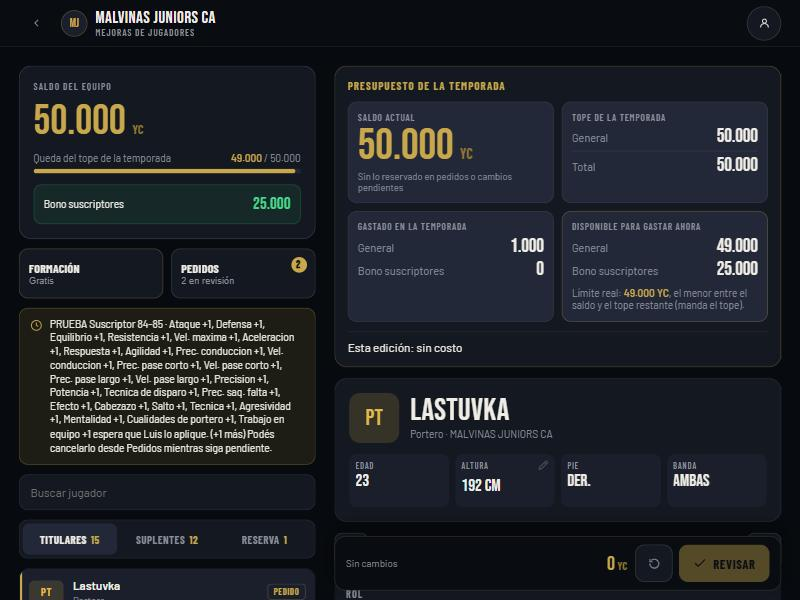
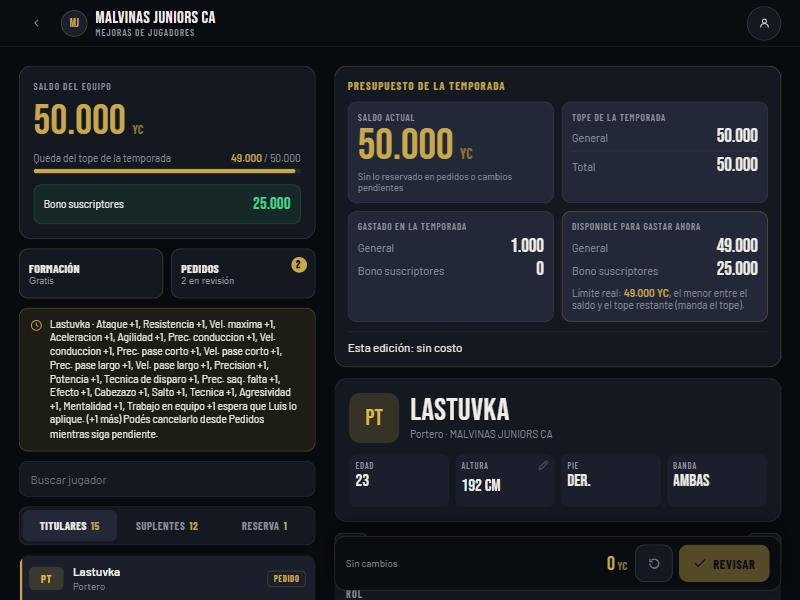
fix(EMP-80-1): auditoria del coordinador: defensa del admin, voseo y sandbox
- pes5-tool: el admin valida con motivoRechazoEmparejar (incluye el tope
  de temporada) antes de escribir y en el boton; _emparejarDe es la unica
  fuente de los cambios.
- Textos sin voseo en las lineas de EMP-80-1 (validarEmparejar, mensajes
  de la Tool y del presidente). Los textos anteriores no se tocaron.
- test-yunacoins-rules: la regex del mensaje sigue el texto nuevo.
- Sandbox rehecho sobre este codigo: casos c, d, e, f, g, g2 y h con
  capturas nuevas. Casos a y b (Tool admin) siguen sin ejecutar.
- Tests: rules-teams 33/33, rules-suite 426/426, rules-pes5 58/58 contra
  el emulador en 8080; unitarias 133/133.

Changed region(s): [[0.0, 0.51, 0.4062, 1.0]]

diff --git a/tsc-src/js/pes5-tool.js b/tsc-src/js/pes5-tool.js
@@ -1265,13 +1265,19 @@ function _emparejarDe(registro){
   const cfg = _emparejarCfg();
   const j = PES5_EDITOR.leerJugadorCompleto(PLANO, registro);
   const r = YUNACOINS_RULES.cambiosEmparejar(j, cfg);
+  const cambios = { atributos: r.atributos };
+  // Defensa previa a escribir: la misma que usa la aprobación de un pedido, con el tope de la temporada.
+  // Si no hay perfil, el motivo lo dice cambiosEmparejar; si lo hay, lo dice motivoRechazoEmparejar.
+  const motivo = r.perfil
+    ? YUNACOINS_RULES.motivoRechazoEmparejar(j, cambios, cfg, _topeAtributoVigente())
+    : (r.motivo || 'Este jugador no puede emparejarse.');
   return {
     perfil: r.perfil,
     max: r.perfil ? YUNACOINS_RULES.rangoEmparejar(cfg, r.perfil).max : null,
     lineas: r.lineas,
-    cambios: { atributos: r.atributos },
+    cambios: cambios,
     nombre: j.nombre || '',
-    motivo: r.motivo,
+    motivo: motivo,
   };
 }
 function _btnEmparejarHTML(registro){
@@ -1279,17 +1285,16 @@ function _btnEmparejarHTML(registro){
   const info = _emparejarDe(registro);
   let motivo = '';
   if (!equipoTSCActual()) motivo = 'El club no tiene equipo asignado: no se puede registrar el emparejar.';
-  else if (!info.perfil) motivo = info.motivo || 'Este jugador no puede emparejarse.';
-  else if (!info.lineas.length) motivo = 'Ya tiene todos sus atributos en ' + info.max + ' o más.';
-  else if (Object.keys(CAMBIOS_PENDIENTES).length) motivo = 'Hay cambios pendientes en la tool: guardalos o descartalos antes de emparejar.';
+  else if (info.motivo) motivo = info.motivo;
+  else if (Object.keys(CAMBIOS_PENDIENTES).length) motivo = 'Hay cambios pendientes en la tool: guarda o descarta los cambios antes de emparejar.';
   const etiqueta = info.max != null ? 'Emparejar a ' + info.max : 'Emparejar';
   const title = motivo || ('Sube ' + info.lineas.length + ' atributo(s) a ' + info.max + ' sin costo (perfil ' + info.perfil + ')');
   return `<button class="btn btn-sm pt-ed-emparejar" data-onclick="ptEmparejarJugador(${Number(registro)})"${motivo ? ' disabled' : ''} title="${escAttr(title)}"><svg class="icn" viewBox="0 0 24 24"><polyline points="17 11 12 6 7 11"/><polyline points="17 18 12 13 7 18"/></svg> ${escHtml(etiqueta)}</button>`;
 }
 function emparejarJugadorAdmin(registro){
   const info = _emparejarDe(registro);
-  if (!info.perfil || !info.lineas.length){ showToast(info.motivo || 'No hay atributos por debajo del máximo del perfil.', 'error'); return; }
-  if (Object.keys(CAMBIOS_PENDIENTES).length){ showToast('Guardá o descartá los cambios pendientes antes de emparejar.', 'error'); return; }
+  if (info.motivo){ showToast(info.motivo, 'error'); return; }
+  if (Object.keys(CAMBIOS_PENDIENTES).length){ showToast('Guarda o descarta los cambios pendientes antes de emparejar.', 'error'); return; }
   const filas = info.lineas.map(l => `<li><span>${escHtml(l.campo)}</span><span class="pt-emp-de">${Number(l.de)} → <strong>${Number(l.a)}</strong></span></li>`).join('');
   const previo = document.getElementById('pt-emp-overlay');
   if (previo) previo.remove();
@@ -1315,9 +1320,11 @@ function cerrarEmparejar(){
 }
 async function confirmarEmparejar(registro){
   cerrarEmparejar();
+  // Se vuelve a calcular y a validar justo antes de escribir (motivoRechazoEmparejar incluido).
   const info = _emparejarDe(registro);
-  if (!info.perfil || !info.lineas.length){ showToast(info.motivo || 'No hay nada que emparejar.', 'error'); return; }
-  if (Object.keys(CAMBIOS_PENDIENTES).length){ showToast('Guardá o descartá los cambios pendientes antes de emparejar.', 'error'); return; }
+  if (info.motivo){ showToast(info.motivo, 'error'); return; }
+  if (!info.perfil || !info.lineas.length){ showToast('No hay nada que emparejar.', 'error'); return; }
+  if (Object.keys(CAMBIOS_PENDIENTES).length){ showToast('Guarda o descarta los cambios pendientes antes de emparejar.', 'error'); return; }
   await escribirAlSave({ registro: Number(registro), nombre: info.nombre, perfil: info.perfil, nivel: info.max, cambios: info.cambios, lineas: info.lineas });
   cerrarEditorJugador(); // el save cambió: el editor de ese jugador quedó con datos viejos
 }

diff --git a/tools/test-yunacoins-rules.js b/tools/test-yunacoins-rules.js
@@ -370,7 +370,7 @@ assert(EP.validarEmparejar(cfgVacia).length === 0, 'validarEmparejar: perfiles v
 assert(EP.validarEmparejar(cfgCustom).length === 0, 'validarEmparejar: custom 75-82 con Suscriptor vacío es válido');
 assert(EP.validarEmparejar(null).length === 0, 'validarEmparejar: bloque ausente es válido (todo vacío)');
 assert(EP.validarEmparejar({ base: { min: 80, max: 79, subir: true }, suscriptor: { min: null, max: null, subir: false } }).some(e => /mínimo no puede ser mayor/.test(e)), 'validarEmparejar: mínimo mayor que máximo → error');
-assert(EP.validarEmparejar({ base: { min: 79, max: null, subir: true }, suscriptor: { min: null, max: null, subir: false } }).some(e => /completá/.test(e)), 'validarEmparejar: perfil a medias (sólo mínimo) → error');
+assert(EP.validarEmparejar({ base: { min: 79, max: null, subir: true }, suscriptor: { min: null, max: null, subir: false } }).some(e => /completa el mínimo/.test(e)), 'validarEmparejar: perfil a medias (sólo mínimo) → error');
 assert(EP.validarEmparejar({ base: { min: null, max: null, subir: true }, suscriptor: { min: null, max: null, subir: false } }).some(e => /vacío/.test(e)), 'validarEmparejar: subir gratis con rango vacío → error');
 assert(EP.validarEmparejar({ base: { min: 79, max: 85, subir: true }, suscriptor: { min: 84, max: 85, subir: true } }).some(e => /solaparse/.test(e)), 'validarEmparejar: rangos que se solapan (79-85 con 84-85) → error');
 assert(EP.validarEmparejar({ base: { min: 79, max: 80, subir: true }, suscriptor: { min: 80, max: 85, subir: true } }).some(e => /solaparse/.test(e)), 'validarEmparejar: rangos que se tocan en 80 → error');

diff --git a/tsc-src/js/mejoras-page.js b/tsc-src/js/mejoras-page.js
@@ -1047,11 +1047,11 @@ function motivoNoEmparejar(p){
   if (!AUTH.user || !AUTH.teamId) return 'Tu cuenta no tiene equipo asignado.';
   const registro = PES5_PLANTILLA.registroDeId(p.id);
   if (registro == null) return 'Este jugador no está en el save.';
-  if (APP.bloqueoPorAplicado) return 'Luis aplicó cambios que todavía no publicó: esperá a que publique.';
+  if (APP.bloqueoPorAplicado) return 'Luis aplicó cambios que todavía no publicó: espera a que publique.';
   const pend = APP.pendientes || [];
   if (pend.some(x => x.tipo === 'emparejar' && Number(x.registro) === Number(registro))) return 'Ya hay un pedido de emparejar pendiente para este jugador.';
   if (pend.some(x => !x.tipo && Number(x.registro) === Number(registro) && (x.totalCost || 0) > 0)) return 'Este jugador tiene una mejora pagada pendiente: ya no se puede emparejar.';
-  if (!APP.pagadosRegistro) return 'No se pudo verificar si el jugador tiene mejoras pagadas (o todavía no cargó). Probá de nuevo.';
+  if (!APP.pagadosRegistro) return 'No se pudo verificar si el jugador tiene mejoras pagadas (o todavía no cargó). Prueba de nuevo.';
   if (APP.pagadosRegistro.has(Number(registro))) return 'Este jugador ya tiene mejoras pagadas en la temporada de cobro: ya no se puede emparejar.';
   return YUNACOINS_RULES.motivoSinEmparejar(PES5_PLANTILLA.jugadorEmparejarDeEditor(p), emparejarCfgPres());
 }

diff --git a/tsc-src/js/yunacoins-rules.js b/tsc-src/js/yunacoins-rules.js
@@ -605,7 +605,7 @@
         if (p.subir === true) errores.push(et + ': marcaste «subir gratis» pero el rango está vacío');
         continue;
       }
-      if (!hayMin || !hayMax) { errores.push(et + ': completá mínimo y máximo, o dejá el perfil vacío'); continue; }
+      if (!hayMin || !hayMax) { errores.push(et + ': completa el mínimo y el máximo, o deja el perfil vacío'); continue; }
       if (!_enteroEmp(p.min, 1, 99) || !_enteroEmp(p.max, 1, 99)) { errores.push(et + ': mínimo y máximo, enteros entre 1 y 99'); continue; }
       if (p.min > p.max) { errores.push(et + ': el mínimo no puede ser mayor que el máximo'); continue; }
       if (p.subir !== undefined && typeof p.subir !== 'boolean') { errores.push(et + ': «subir gratis» debe ser sí o no'); continue; }

diff --git a/docs/reportes/EMP-80-1.md b/docs/reportes/EMP-80-1.md
@@ -131,11 +131,19 @@ Las capturas están en `docs/reportes/capturas-EMP-80-1/`.
 
 Dónde ocurre: `tsc-src/js/pes5-tool.js`, rama `p.tipo === 'emparejar'` de `aplicarPedidosSeleccionados`:
 
-- línea 1721–1722: `jE = leerJugadorCompleto(copia, registro)` (el **save real**, no el pedido) y `perfilEmparejar(jE, cfgE)`.
-- línea 1725: el `perfil` y el `nivel` del pedido deben coincidir con los actuales.
-- línea 1726: `motivoRechazoEmparejar(jE, p.cambios, cfgE, topeTemporada)`, que por dentro llama a `cambiosEmparejar(jE, cfgE)` y compara **cada** valor con el pedido. Rechaza si falta un atributo, si un valor es distinto o si supera el máximo.
+- línea 1728: `jE = leerJugadorCompleto(copia, registro)` (el **save real**, no el pedido); línea 1729: `perfilEmparejar(jE, cfgE)`.
+- línea 1732: el `perfil` y el `nivel` del pedido deben coincidir con los actuales.
+- línea 1733: `motivoRechazoEmparejar(jE, p.cambios, cfgE, topeTemporada)`, antes de `escribirJugadorCompleto` (línea 1736), que por dentro llama a `cambiosEmparejar(jE, cfgE)` y compara **cada** valor con el pedido. Rechaza si falta un atributo, si un valor es distinto o si supera el máximo.
 
 Comprobación con el save real (solo lectura, script en la carpeta de trabajo): para Lastuvka (`r4414`) el perfil es Base y el máximo 80. Con los 22 atributos calculados sobre el save: el pedido igual **acepta**; uno que sube todo a 81 **rechaza** («subiría a 81 y el máximo del perfil base es 80»); uno con `Ataque: 79` **rechaza** («ya no coincide… plantilla desactualizada»); y uno sin `Ataque` **rechaza** («faltan atributos»).
+
+### Defensa del admin antes de escribir
+
+El botón y la confirmación del admin usan la misma defensa, en `_emparejarDe` (`tsc-src/js/pes5-tool.js`, línea 1262): calcula los cambios con `cambiosEmparejar` sobre el save y después llama a `motivoRechazoEmparejar(j, cambios, cfg, _topeAtributoVigente())` (línea 1272), que incluye el tope de temporada. Si devuelve motivo:
+
+- el botón queda deshabilitado con ese motivo (`_btnEmparejarHTML`, línea 1283);
+- `emparejarJugadorAdmin` no abre la confirmación (línea 1296);
+- `confirmarEmparejar` vuelve a validar justo antes de llamar a `escribirAlSave` (línea 1325).
 
 ## Bug encontrado y corregido
 
